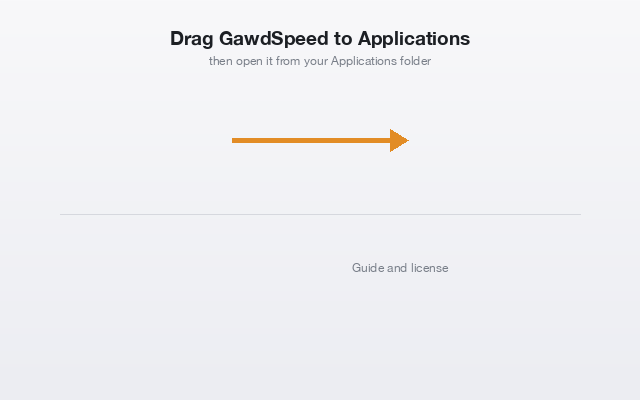
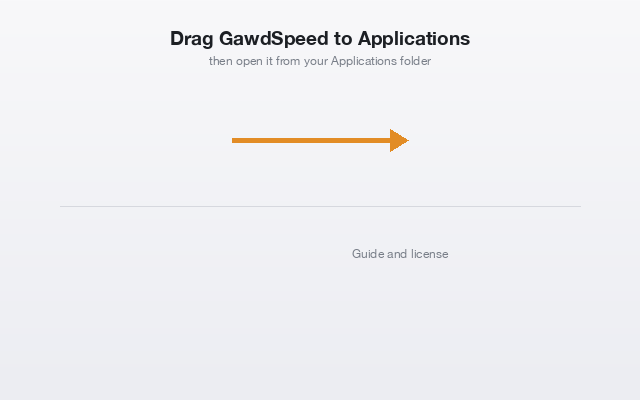
DMG: Docs a little higher so nothing scrolls

Changed region(s): [[0.0938, 0.51, 0.9062, 0.54], [0.5312, 0.63, 0.7188, 0.69]]

diff --git a/scripts/make-dmg-background.py b/scripts/make-dmg-background.py
@@ -11,7 +11,7 @@ from PIL import Image, ImageDraw, ImageFont
 W, H = 640, 400                      # window content size, points
 # Compact enough to fit when Finder's tab bar and path bar are on (they take
 # about 55 pt from the window), which squeezed the first layout.
-APP, APPS, DOCS = (170, 140), (470, 140), (300, 268)
+APP, APPS, DOCS = (170, 140), (470, 140), (300, 254)
 INK, MUTED, ACCENT = (28, 31, 36), (120, 126, 136), (226, 140, 38)
 FONT = "/System/Library/Fonts/HelveticaNeue.ttc"   # face 0 regular, 1 bold
 
@@ -38,7 +38,7 @@ def draw(scale):
     d.line([(x0, y), (x1 - 14 * scale, y)], fill=ACCENT, width=5 * scale)
     d.polygon([(x1, y), (x1 - 18 * scale, y - 11 * scale), (x1 - 18 * scale, y + 11 * scale)], fill=ACCENT)
     # A hairline separating the Docs area.
-    d.line([(60 * scale, 214 * scale), ((W - 60) * scale, 214 * scale)], fill=(214, 216, 222), width=scale)
+    d.line([(60 * scale, 206 * scale), ((W - 60) * scale, 206 * scale)], fill=(214, 216, 222), width=scale)
     # Caption beside the Docs folder (icons are 80 pt, so it starts past the icon).
     f3 = font(12, False)
     d.text(((DOCS[0] + 52) * scale, (DOCS[1] - 8) * scale), "Guide and license", font=f3, fill=MUTED)
